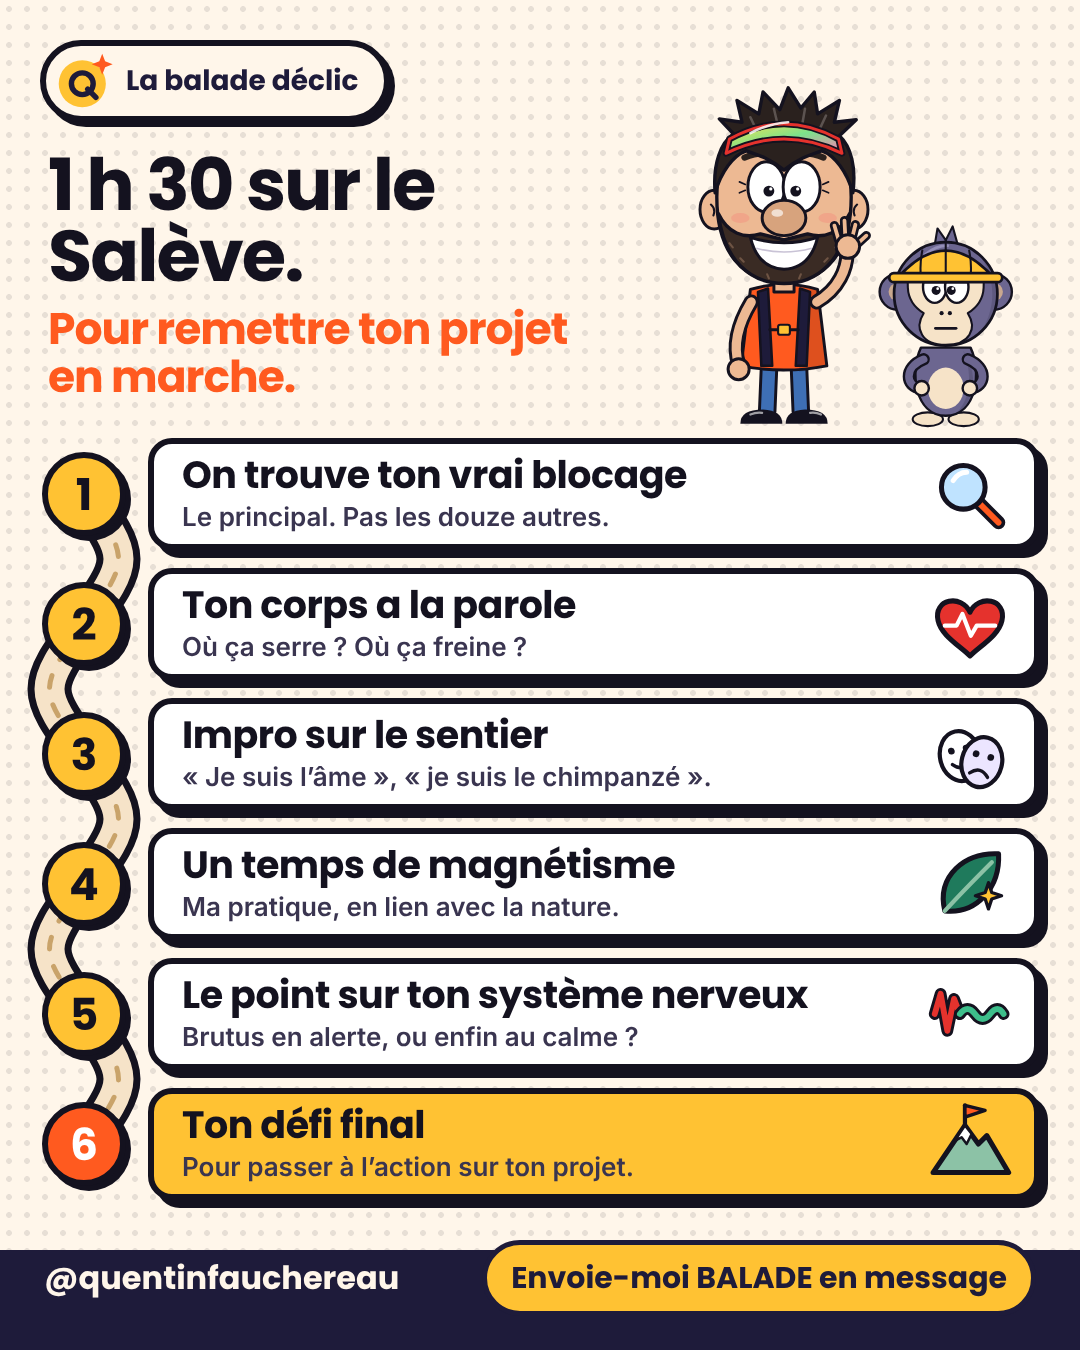
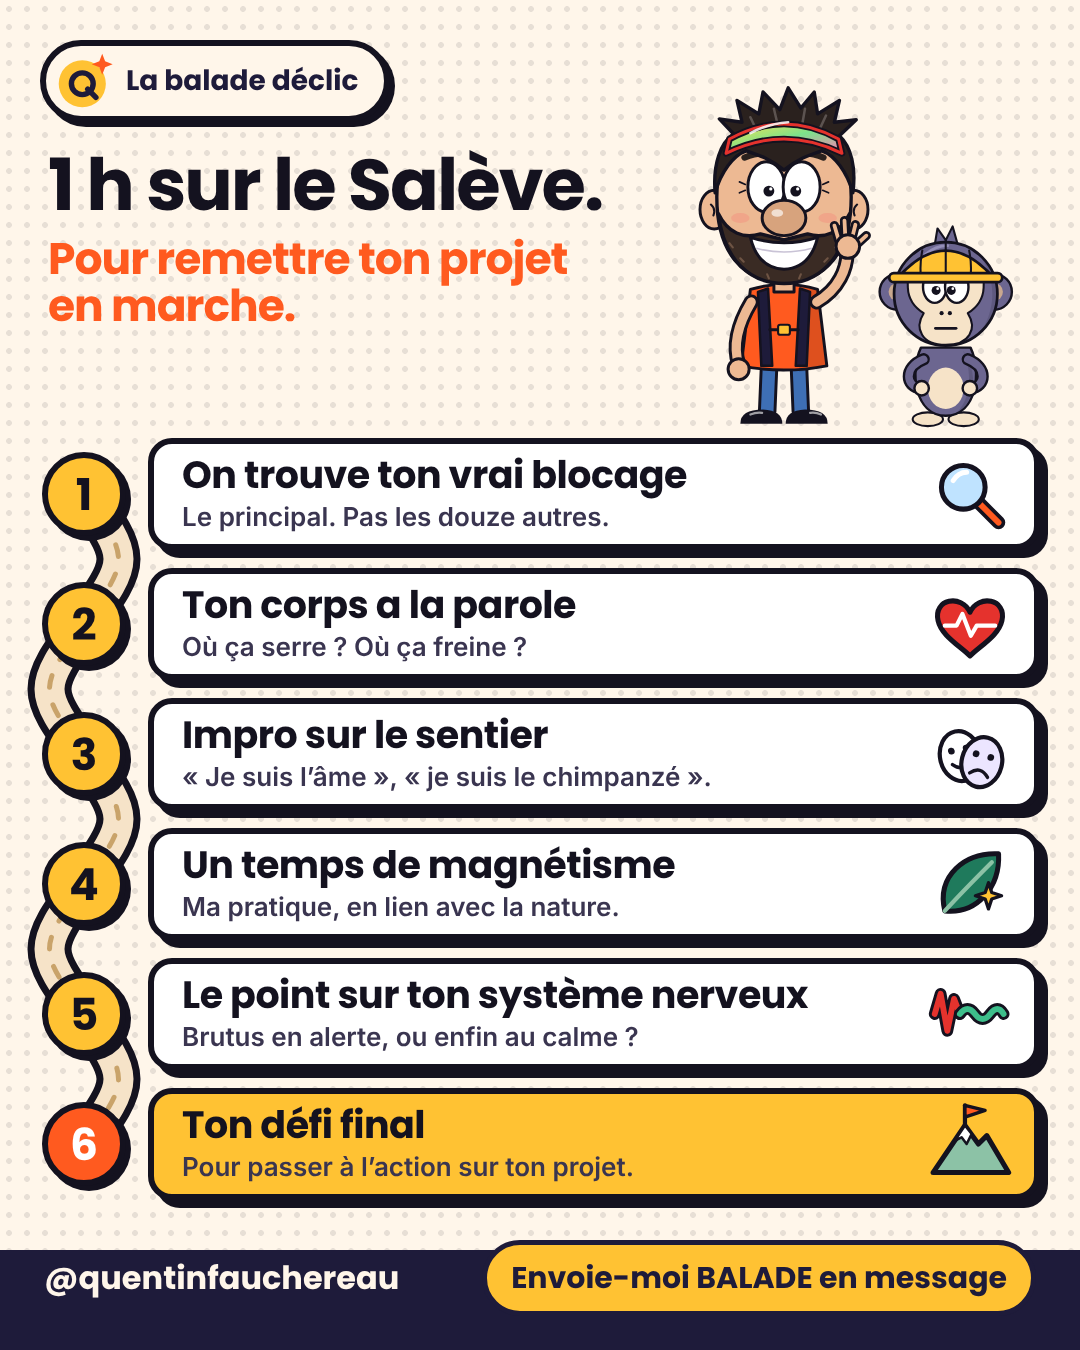
Balade déclic : la séance dure 1 h
Claude-Session: https://claude.ai/code/session_01Ur5KmNwGX77uPT1hWfhQXL

Changed region(s): [[0.0306, 0.0933, 0.55, 0.3111]]

diff --git a/visuels/01-balade-6-etapes.js b/visuels/01-balade-6-etapes.js
@@ -55,7 +55,7 @@ function etapes({ top, h, gap, title = 38, sub = 26, ico = 84 }) {
 const etiquette = (y) => `<div class="abs" style="left:40px;top:${y}px;z-index:5;display:flex;align-items:center;gap:12px;background:${C.creme};border:6px solid ${I};border-radius:999px;padding:6px 26px 6px 10px;font-family:Poppins;font-weight:700;font-size:28px;box-shadow:5px 5px 0 ${I}">${logo(58)}<span>La balade déclic</span></div>`;
 const fond = (H) => `<div class="abs" style="inset:0;background:${C.creme}"></div><div class="abs" style="inset:0;background-image:radial-gradient(rgba(20,18,31,.1) 2.6px,transparent 3.2px);background-size:18px 18px"></div>`;
 const titre = (y, s1, s2, w = 640, w2 = 520) => `<div class="abs" style="left:48px;top:${y}px;width:${w}px;z-index:4">
-  <div style="font-family:Poppins;font-weight:700;font-size:${s1}px;line-height:.98;letter-spacing:-2px;color:${I}">1&nbsp;h&nbsp;30 sur le Salève.</div>
+  <div style="font-family:Poppins;font-weight:700;font-size:${s1}px;line-height:.98;letter-spacing:-2px;color:${I}">1&nbsp;h sur le Salève.</div>
   <div style="font-family:Poppins;font-weight:700;font-size:${s2}px;line-height:1.08;letter-spacing:-1px;color:${C.flamme};margin-top:14px;width:${w2}px">${typo('Pour remettre ton projet en marche.')}</div></div>`;
 const duo = (x, y, s) => G.svgPage(`${G.quentin({ x, y, s, arms: { l: 'down', r: 'wave' }, mouth: 'grin', eyes: { px: -4 } })}
   ${G.brutus({ x: x + 175 * s / 0.4, y: y + 128 * s / 0.4, s: s * 0.82, arms: 'hip', casque: true, mouth: 'flat', brows: 'angry', eyes: { lid: 0.35, px: -6 } })}`);
@@ -72,7 +72,7 @@ function post() {
 // Story : zones hautes (≈ 220 px) et basses (≈ 260 px) laissées libres pour l'interface d'Instagram.
 function story() {
   const H = 1920, e = etapes({ top: 650, h: 128, gap: 22, title: 40, sub: 28, ico: 92 });
-  return `<div class="page" style="height:${H}px">${fond(H)}${etiquette(230)}${titre(340, 80, 48, 640, 560)}
+  return `<div class="page" style="height:${H}px">${fond(H)}${etiquette(230)}${titre(340, 74, 48, 640, 560)}
     <div class="abs" style="left:0;top:0;z-index:3">${duo(690, 270, 0.46)}</div>
     ${sentier(e.pts, H)}${e.html}
     <div class="abs" style="left:48px;right:48px;top:1574px;z-index:4;background:${C.flamme};border:6px solid ${I};border-radius:26px;box-shadow:8px 8px 0 ${I};padding:18px 26px;text-align:center;font-family:Poppins;font-weight:700;font-size:40px;line-height:1.1;color:#fff;transform:rotate(-1deg)">Réponds BALADE à cette story ↓</div></div>`;

diff --git a/visuels/01-balade-6-etapes/legende.md b/visuels/01-balade-6-etapes/legende.md
@@ -1,4 +1,4 @@
-1 h 30 sur le Salève. Pour remettre ton projet en marche.
+1 h sur le Salève. Pour remettre ton projet en marche.
 
 Tu as une idée en tête depuis des mois. Elle ne bouge pas. Brutus, mon chimpanzé intérieur, appelle ça « être prudent ».
 
